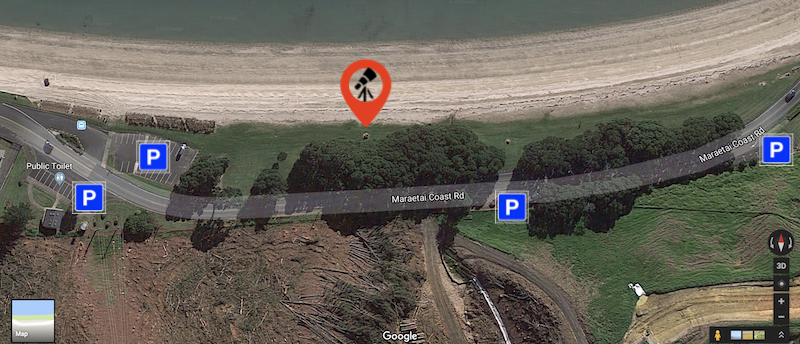
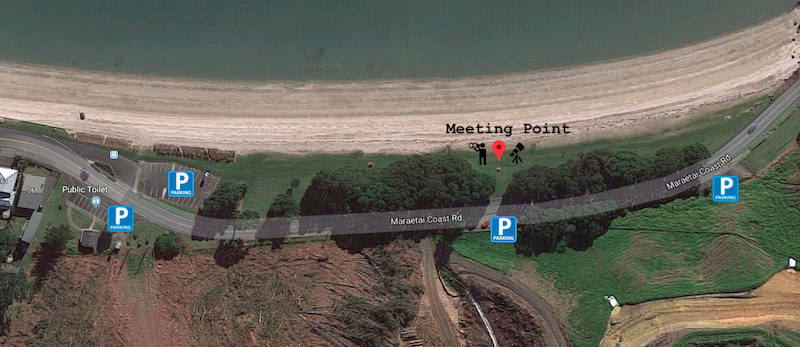
updated eventbrite integration and the meeting point map

diff --git a/stargazing_lab.html b/stargazing_lab.html
@@ -61,7 +61,9 @@ title: Stargazing Lab
 			</section>
 			<section>
 				<h4>Upcoming Stargazing Lab Sessions</h4>
-				<div style="width:100%; text-align:left;"><iframe src="https://eventbrite.com/tickets-external?eid=49974367679&ref=etckt" frameborder="0" height="478" width="100%" vspace="0" hspace="0" marginheight="5" marginwidth="5" scrolling="auto" allowtransparency="true"></iframe><div style="font-family:Helvetica, Arial; font-size:12px; padding:10px 0 5px; margin:2px; width:100%; text-align:left;" ><a class="powered-by-eb" style="color: #ADB0B6; text-decoration: none;" target="_blank" href="https://www.eventbrite.com/">Powered by Eventbrite</a></div></div>
+				<div style="width:100%; text-align:left;">
+					<iframe src="https://eventbrite.com/tickets-external?eid=49974367679&ref=etckt" frameborder="0" height="478" width="100%" vspace="0" hspace="0" marginheight="5" marginwidth="5" scrolling="auto" allowtransparency="true"></iframe>
+				</div>
 				<!--
 				<div class="table-wrapper">
 					<table>
